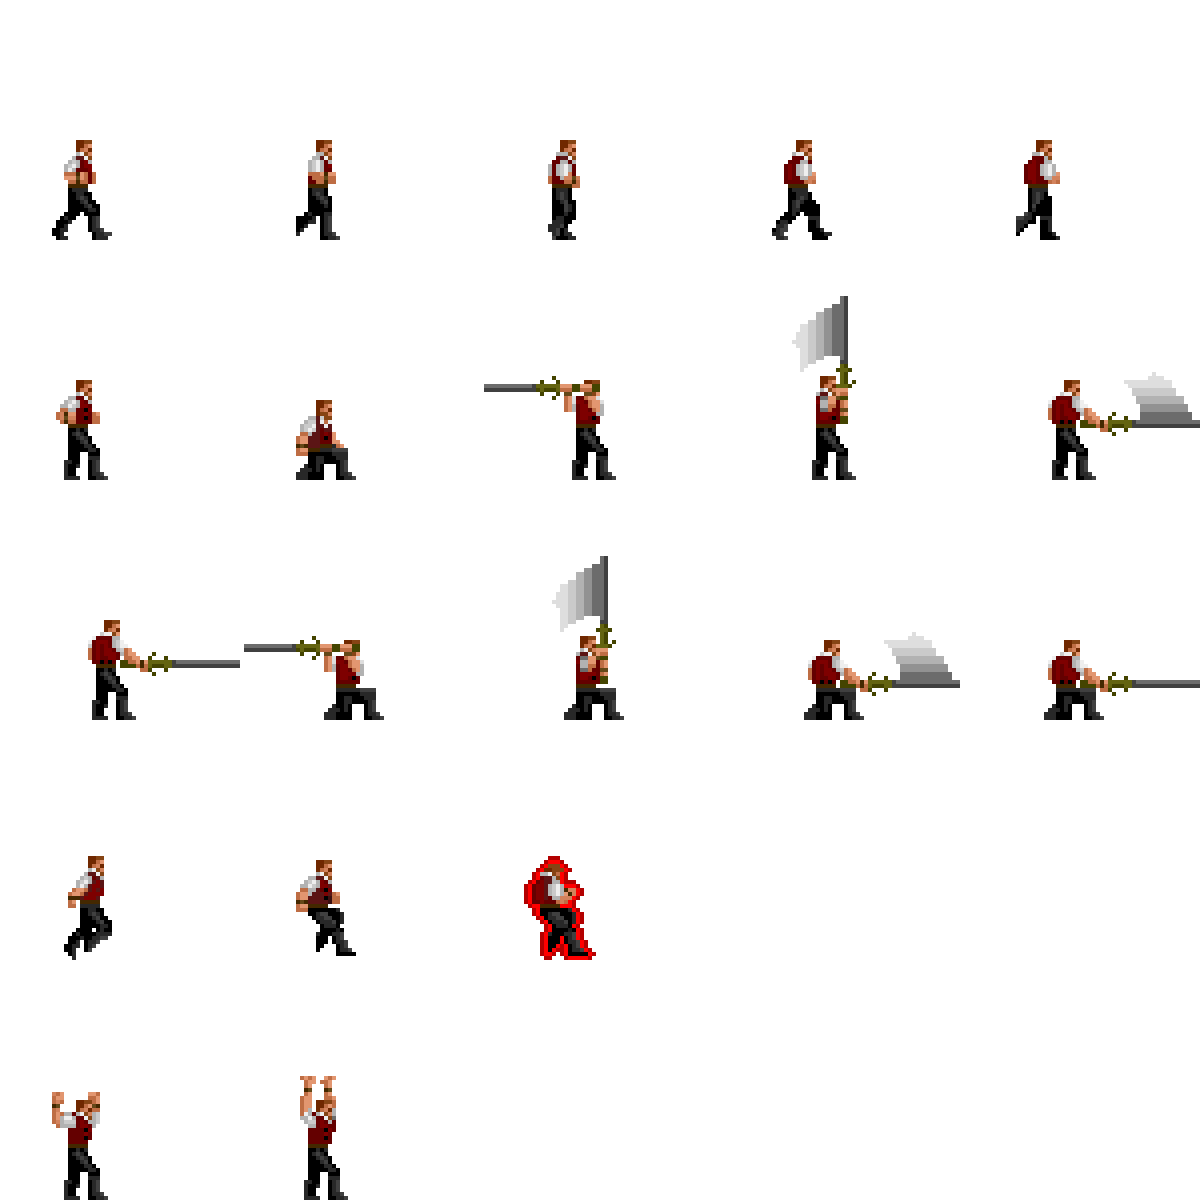
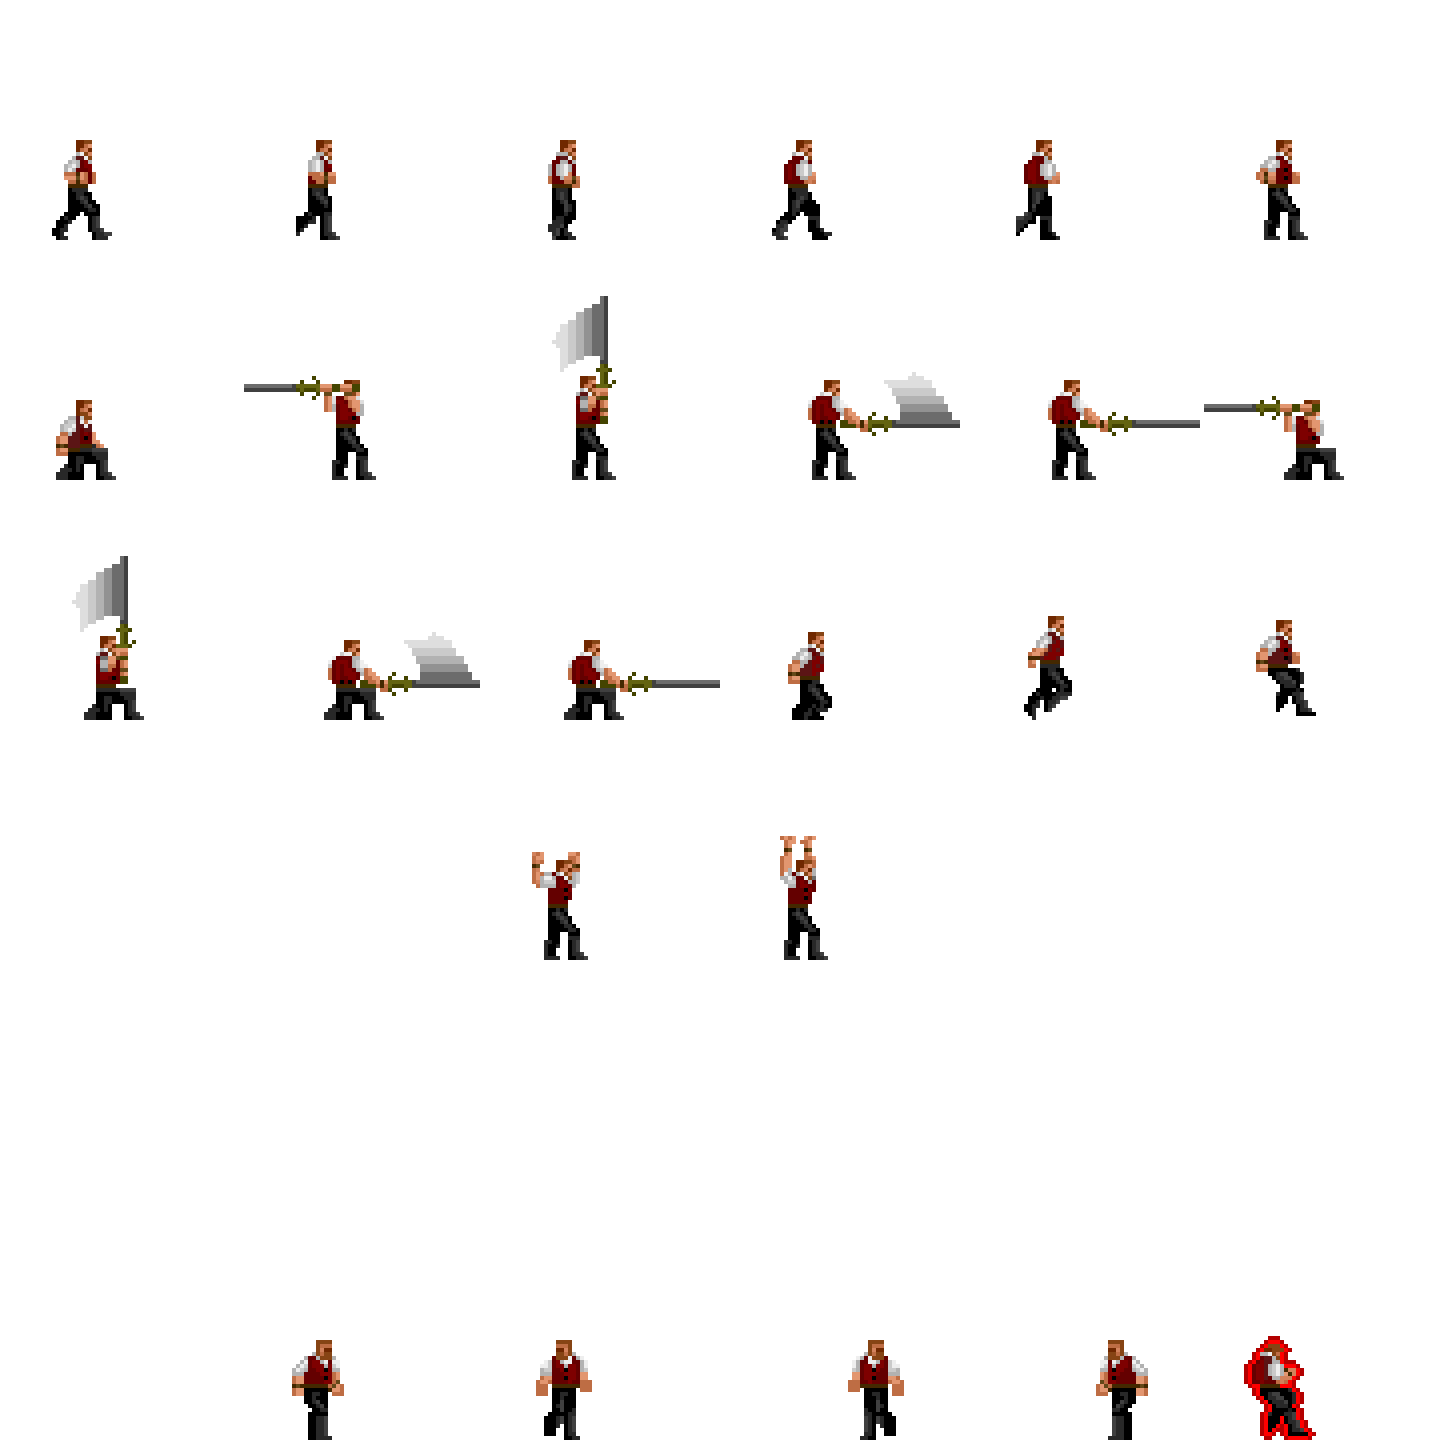
Can switch weapons

diff --git a/entities/playerEntity.js b/entities/playerEntity.js
@@ -99,6 +99,7 @@ var PlayerEntity = me.ObjectEntity.extend({
 		me.game.lvl = playerInfo.lvl;
 		me.game.strength = playerInfo.strength; 
 		this.secWeapon = 'axe';
+		if (!this.mainweapon) this.mainweapon = 'whip';
 
 		console.log(me.game.strength)
 
@@ -117,6 +118,7 @@ var PlayerEntity = me.ObjectEntity.extend({
 		this.menuDelay = false;
 		this.weaponDelay = false;
 		this.jumpDelay = false;
+		this.mainweaponDelay = false;
 		
 		// set the display around our position 
 		me.game.viewport.follow(this, me.game.viewport.AXIS.BOTH);
@@ -130,6 +132,7 @@ var PlayerEntity = me.ObjectEntity.extend({
 		me.input.bindKey(me.input.KEY.X,	"attack"); 
 		me.input.bindKey(me.input.KEY.DOWN,	"down");
 		me.input.bindKey(me.input.KEY.ENTER, "menu");
+		me.input.bindKey(me.input.KEY.Q, "weaponchange");
 		
 		// Animations
 		this.changeimage();
@@ -167,26 +170,27 @@ var PlayerEntity = me.ObjectEntity.extend({
     	
     	if (this.mainweapon == 'twohandedsword') {
 	    	this.renderable.image = me.loader.getImage('simontwohandedsword');
-	    	this.renderable.addAnimation ("walk",  [0,1,2,3,4,2], 2); 
-			this.renderable.addAnimation ("stand",  [6]); 
-			this.renderable.addAnimation ("crouch",  [7]);
-			this.renderable.addAnimation ("secondattack",  [22,23,24],1);
-			this.renderable.addAnimation ("jumpdown", [16]);
-			this.renderable.addAnimation ("jumpup", [18]);
-			this.renderable.addAnimation ("turnright", [34,33]);
-			this.renderable.addAnimation ("turnleft", [32,31]);
-			this.renderable.addAnimation ("attack",  [7,8,9,10], 1);
-			this.renderable.addAnimation ("jumpattack",  [9,10],1);
-			this.renderable.addAnimation ("crouchattack",  [13,14,15,16],1);
-			this.renderable.addAnimation ("hurt",  [17]);
-    	}
-    	else if (this.mainweapon == 'whip' || !this.mainweapon) {
 			this.renderable.addAnimation ("walk",  [0,1,2,3,4,2], 2); 
 			this.renderable.addAnimation ("stand",  [5]); 
 			this.renderable.addAnimation ("crouch",  [6]);
 			this.renderable.addAnimation ("secondattack",  [22,23,24],1);
 			this.renderable.addAnimation ("jumpdown", [14]);
-			this.renderable.addAnimation ("jumpup", [14]);
+			this.renderable.addAnimation ("jumpup", [17]);
+			this.renderable.addAnimation ("turnright", [34,33]);
+			this.renderable.addAnimation ("turnleft", [32,31]);
+			this.renderable.addAnimation ("attack",  [7,8,9,10], 1);
+			this.renderable.addAnimation ("jumpattack",  [9,10],1);
+			this.renderable.addAnimation ("crouchattack",  [11,12,13,14],1);
+			this.renderable.addAnimation ("hurt",  [17]);
+    	}
+    	else if (this.mainweapon == 'whip' || !this.mainweapon) {
+    		this.renderable.image = me.loader.getImage('simon');
+			this.renderable.addAnimation ("walk",  [0,1,2,3,4,2], 2); 
+			this.renderable.addAnimation ("stand",  [5]); 
+			this.renderable.addAnimation ("crouch",  [6]);
+			this.renderable.addAnimation ("secondattack",  [22,23,24],1);
+			this.renderable.addAnimation ("jumpdown", [14]);
+			this.renderable.addAnimation ("jumpup", [17]);
 			this.renderable.addAnimation ("turnright", [34,33]);
 			this.renderable.addAnimation ("turnleft", [32,31]);
 			this.renderable.addAnimation ("attack",  [7,8,9,10], 1);
@@ -270,6 +274,7 @@ var PlayerEntity = me.ObjectEntity.extend({
 				me.audio.play("18", false);
 				this.mainMenuPosition = 1;
 				me.game.HUD.addItem("mainmenu", new MenuObject(600,600,'MENU', this.mainMenuPosition)); 
+				me.game.HUD.z = Infinity;
 				me.game.sort();
 				setTimeout(function(){ self.menuDelay = false; },100);
 			}
@@ -366,6 +371,32 @@ var PlayerEntity = me.ObjectEntity.extend({
 
 			///////// Movements /////////
 		if (this.renderable.flickerTimer < 85 && (!me.game.HUD.HUDItems.mainmenu) && (!me.game.HUD.HUDItems.dialogueShopBox) && (!me.game.HUD.HUDItems.dialogueBlockerBox)) {
+
+			// Change main weapon
+			if (me.input.isKeyPressed('weaponchange') && this.mainweaponDelay == false) {
+
+				this.mainweaponDelay = true;
+				for(i=0; i < playerInfo.weapons.length; i++) { 
+
+					console.log(playerInfo.weapons)
+					if (this.mainweapon == playerInfo.weapons[i]) {
+
+						if (i == playerInfo.weapons.length-1) i = 0;
+						else i++
+
+						this.mainweapon = playerInfo.weapons[i];
+						this.changeimage();
+						me.game.HUD.removeItem("primaryWeapon");
+						me.game.HUD.addItem("primaryWeapon", new InventoryDisplay(0,0, {width: 100, height: 100, type:'primaryweapons'}));  
+						break;
+
+					}
+				}
+				setTimeout(function(){ 
+				    self.mainweaponDelay = false;
+				},370);
+
+			}
 			// If pressing left and not attacking
 			if (me.input.isKeyPressed('left') && (!this.renderable.isCurrentAnimation('attack') && !this.renderable.isCurrentAnimation('crouchattack')))	{ 
 				// Walk animation if not jumping

diff --git a/entities/itemEntities.js b/entities/itemEntities.js
@@ -116,7 +116,11 @@ var PickupEntity = me.ObjectEntity.extend({
 			}
 			else if (this.mainweapon) {
 				mainPlayer.mainweapon = this.mainweapon;
+				playerInfo.weapons.push(this.mainweapon);
+				console.log(playerInfo.weapons)
 				mainPlayer.changeimage();
+				me.game.HUD.removeItem("primaryWeapon");
+				me.game.HUD.addItem("primaryWeapon", new InventoryDisplay(0,0, {width: 100, height: 100, type:'primaryweapons'}));  
 			}
 
 			me.game.remove(self) 
@@ -365,7 +369,7 @@ var InventoryDisplay = me.HUD_Item.extend( {
 		if (settings.type == 'primaryweapons') {
 	        // Weapon images
 	        this.image = me.loader.getImage("secweaponoverlayleft"); 
-			this.image2 = me.loader.getImage("twohandedsword"); 
+			this.image2 = me.loader.getImage("whip"); 
 		}
 		if (settings.type == 'middleui') {
 	        // Weapon images
@@ -443,7 +447,10 @@ var InventoryDisplay = me.HUD_Item.extend( {
     	if (this.type == 'primaryweapons') {
 			// Which weapon does player have?
 			var mainPlayer = me.game.getEntityByName('mainPlayer')[0]
-			if (mainPlayer.mainweapon == 'whip') this.imageXOffset = 240;
+			
+			if (mainPlayer.mainweapon == 'whip') {
+				this.image2 = me.loader.getImage("whip");
+			}
 			else if (mainPlayer.mainweapon == 'twohandedsword') {
 				this.image2 = me.loader.getImage("twohandedsword");
 			}
@@ -452,22 +459,10 @@ var InventoryDisplay = me.HUD_Item.extend( {
 			this.context.fillStyle = "black";
 			this.context.fillRect(this.x, this.y, this.width, this.height); 
 
-						// // Main box 
-			this.context.fillStyle = "black";
-			this.context.fillRect(this.x, this.y, this.width, this.height); 
 
-		 //    this.context.beginPath();
-	  //       this.context.rect(this.x, this.y, this.width, this.height);
 	        this.context.drawImage(this.image,this.x,this.y);
 	        this.context.drawImage(this.image2,this.x,this.y);
-	        // this.context.drawImage(this.image2,this.imageXOffset,0,120,60,this.x+70,this.y+10,120,60);
 
-		    // this.context.beginPath();
-	     //    this.context.rect(this.x, this.y, this.width, this.height);
-	     //    this.context.drawImage(this.image,this.x+10,this.y-15);
-	     //    this.context.lineWidth = 7;
-	     //    this.context.strokeStyle = '#8B0000';
-	     //    this.context.stroke();
     	}
     }
 });

diff --git a/main.js b/main.js
@@ -83,7 +83,8 @@ var game = {
 
 		// Weapons
 		{name: "throwingweapons",		type:"image",	src: "data/gfx/weapons and items/Throwing Weapons@4x.png"}, 
-		{name: "twohandedsword",		type:"image",	src: "data/gfx/weapons and items/Twohandedswordsprite@4x.png"}, 
+		{name: "twohandedsword",		type:"image",	src: "data/gfx/weapons and items/Invtwohandedsword@4x.png"}, 
+		{name: "whip",		type:"image",	src: "data/gfx/weapons and items/InvWhip@4x.png"}, 
 
 		// NPCs
 		{name: "Shopkeeper",		type:"image",	src: "data/gfx/shops and npcs/Shop@4x.png"}, 
@@ -210,7 +211,7 @@ var PlayScreen = me.ScreenObject.extend( {
 	// no need to do somehting else
 	onResetEvent: function() {
 		// load a level
-		me.levelDirector.loadLevel("map1");
+		me.levelDirector.loadLevel("map1-2");
 
 		// add a default HUD to the game mngr
 		me.game.addHUD(0,0,1280, 720);

diff --git a/entities/enemyEntities.js b/entities/enemyEntities.js
@@ -117,8 +117,8 @@ var AllEnemyEntity = me.ObjectEntity.extend({
 			//create vector based on player's postion
 	        var xDir = player.pos.x - this.pos.x; 
 
-	        var radiusMin = player.collisionBox.pos.x - 150;
-	        var radiusMax = player.collisionBox.pos.x + 150; 
+	        var radiusMin = player.collisionBox.pos.x - 80;
+	        var radiusMax = player.collisionBox.pos.x + 80; 
 
 	        if (this.pos.x > radiusMin && this.pos.x < radiusMax) {
 

diff --git a/index.html b/index.html
@@ -41,11 +41,18 @@
 	var capHP = 25;
 	var lastLevelHeight = '';
 	var playerInfo = new Object();
+
+	// Info
 	playerInfo.xp = 0;
 	playerInfo.lvl = 1;
 	playerInfo.strength = 3;
 	playerInfo.hitpoints = 50;
 	playerInfo.hearts = 10;
+
+	// Weapons
+	playerInfo.weapons = new Array();
+	playerInfo.weapons = ['whip'];
+
 
 	var lvlcap = Array(); 
 	for(i=1; i<50; i++) { 
